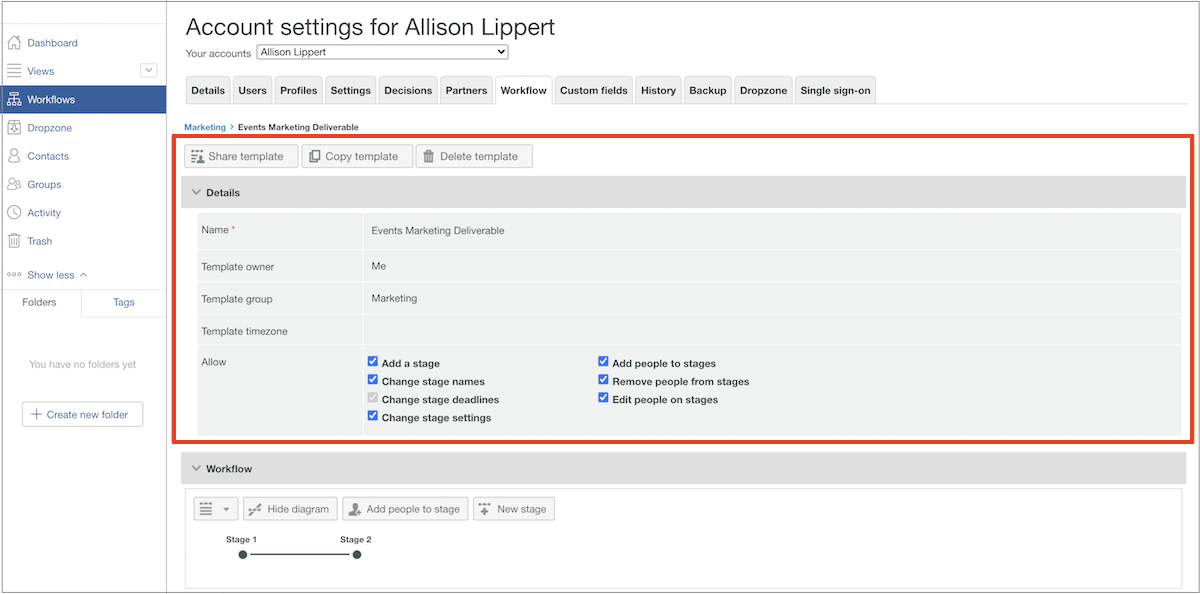
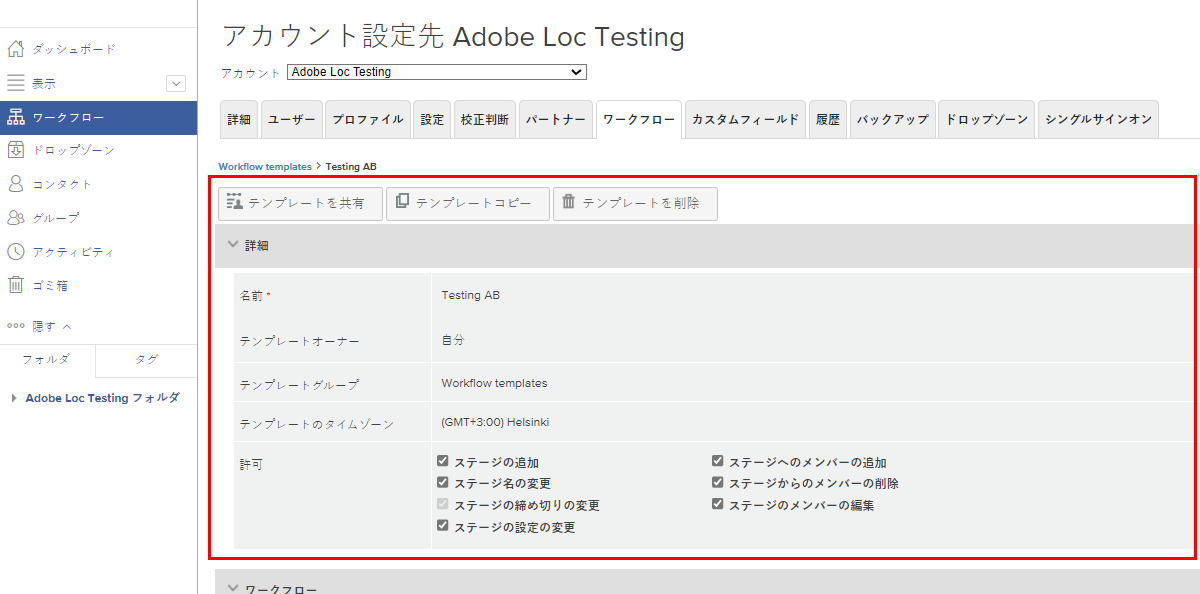
Updated by task 'AUTO_HANDOFF_1723460285162'  Changes for core/source commit https://git.corp.adobe.com/AdobeDocs/workfront-learn.en/commit/f2256fcc19d64247c79126c39acc202b4aff6f96

diff --git a/help/workfront-proof/administration-and-setup/edit-an-automated-workflow-template.md b/help/workfront-proof/administration-and-setup/edit-an-automated-workflow-template.md
@@ -13,9 +13,9 @@ jira: KT-8831
 exl-id: 03841b1f-741d-4427-ae84-ddb9f890fc95
 doc-type: video
 source-git-commit: 55edb8b797583f93f405c9c6b69422b818c90cdc
-workflow-type: tm+mt
+workflow-type: ht
 source-wordcount: '572'
-ht-degree: 61%
+ht-degree: 100%
 
 ---
 
@@ -29,12 +29,12 @@ ht-degree: 61%
 1. そこから、左のパネルメニューで「**[!UICONTROL ワークフロー]**」を選択します。
 1. テンプレート名の右端にある「...」メニューをクリックし、「**[!UICONTROL テンプレートの詳細を表示]**」を選択します。
 
-テンプレートの共有、コピー、削除の各オプションが、各テンプレートのテンプレート詳細ウィンドウの上部に表示されます。テンプレートを削除しても、そのテンプレートが適用されている進行中のプルーフには影響しませんが、今後はそのテンプレートを使用できなくなります。
+テンプレートの共有、コピー、削除の各オプションが、各テンプレートのテンプレート詳細ウィンドウの上部に表示されます。 テンプレートを削除しても、そのテンプレートが適用されている進行中のプルーフには影響しませんが、今後はそのテンプレートを使用できなくなります。
 
 ![テンプレート詳細ウィンドウ](assets/proof-system-setup-edit-templates-details-area.png)
 
 
-「[!UICONTROL  詳細 ]」という単語の左側にある矢印をクリックして、セクションを展開または折りたたみます。
+「[!UICONTROL 詳細]」という単語の左側にある矢印をクリックすると、セクションを展開したり折りたたんだりできます。
 
 ## ステージと受信者を変更する
 
@@ -42,31 +42,31 @@ ht-degree: 61%
 
 自動ワークフローの各ステージには固有のセクションがあり、そこでは期限、プライバシー、プルーフの受信者、その他の情報を個別に変更できます。
 
-このビデオでは、「ワークフロー [!UICONTROL  エリアで実行できる変更の一部を実演し ] す。 このビデオの下にある箇条書きリストを参照してください。このビデオでは、これらの設定を確認します。
+このビデオでは、[!UICONTROL ワークフロー]エリアで実行できる変更のいくつかを実演します。 このビデオの下にある箇条書きリストを参照してください。このビデオでは、これらの設定を確認します。
 
 >[!VIDEO](https://video.tv.adobe.com/v/335131/?quality=12&learn=on)
 
 確認として、「[!UICONTROL ワークフロー]」セクションで実行できるプルーフテンプレートの変更は次の通りです。
 
 * 「ステージ名」フィールドまたは「期限」フィールドをクリックすると、その情報を更新できます。
-* 期限の左側にある矢印をクリックすると、ステージをロックしたり、ステージをアクティブにするタイミングを決定したり、決定を 1 つだけ要求したりできます。
+* 「期限」の左側にある矢印をクリックすると、ステージをロックしたり、ステージをアクティブにするタイミングを決定したり、1 つの決定のみを要求したりできます。
 * 受信者リストで、「[!UICONTROL 役割]」フィールドまたは「[!UICONTROL 電子メールアラート]」フィールドをクリックすると、別のオプションを選択できます。
-* 受信者の名前の右端にある点が 3 つ並んだメニューに移動すると、受信者をリストから削除したり、そのワークフローステージのメインの意思決定者にしたり、プルーフの役割とメールアラートの情報を編集したりできます。
+* 受信者の名前の右端にある点が 3 つ並んだメニューに移動すると、受信者をリストから削除したり、そのワークフローステージのメインの意思決定者にしたり、プルーフの役割とメールアラートに関する情報を編集したりできます。
 * 受信者をリストに追加する方法は 2 つあります。
-   1. 各ステージセクションの右上隅で、[!UICONTROL  詳細 ] メニューに移動して「[!UICONTROL  ステージにユーザーを追加 ]」を選択します。 [!UICONTROL  ステージにユーザーを追加 ] ウィンドウを開いたら、そのユーザーを追加するステージをクリックします。 次に、受信者リストにそのユーザーの名前または電子メールアドレスを入力し、プルーフの役割とメールアラートを割り当てます。完了したら「[!UICONTROL  ユーザーを追加 ]」ボタンをクリックします。
+   1. 各ステージセクションの右上隅で、「[!UICONTROL 詳細]」メニューに移動して「[!UICONTROL ステージにユーザーを追加]」を選択します。 「[!UICONTROL ステージにユーザーを追加]」ウィンドウを開いたら、そのユーザーを追加するステージをクリックします。 次に、受信者リストにそのユーザーの名前または電子メールアドレスを入力し、プルーフの役割とメールアラートを割り当てます。 完了したら「[!UICONTROL ユーザーを追加]」ボタンをクリックします。
    1. [!UICONTROL ワークフロー]エリアの上部で、「[!UICONTROL ステージにユーザーを追加]」を選択します。
 
 ## テンプレートを共有する
 
-[!UICONTROL 共有先]エリアには、テンプレートを使用できるプルーフのユーザーが表示されます。今後はテンプレートを使用する必要がなくなったユーザーを削除するには、名前の右端にある「...」メニューをクリックして、「[!UICONTROL 削除]」を選択します。
+[!UICONTROL 共有先]エリアには、テンプレートを使用できるプルーフのユーザーが表示されます。 今後はテンプレートを使用する必要がなくなったユーザーを削除するには、名前の右端にある「...」メニューをクリックして、「[!UICONTROL 削除]」を選択します。
 
 ![[!UICONTROL 共有先]リスト](assets/proof-system-setups-edit-template-shared-with.png)
 
-ただし、このセクションから共有リストにユーザーを追加することはできません。これを実行するには、テンプレートの詳細ウィンドウの上部に戻り、「[!UICONTROL テンプレートを共有]」ボタンをクリックします。
+ただし、このセクションから共有リストにユーザーを追加することはできません。 これを実行するには、テンプレートの詳細ウィンドウの上部に戻り、「[!UICONTROL テンプレートを共有]」ボタンをクリックします。
 
 ## 追加情報
 
-[!DNL Workfront] では、いつテンプレートに変更が加えられたかの監査履歴が保持されています。日付、変更を加えたユーザー、および変更内容に関する簡単な情報を確認できます。
+[!DNL Workfront] では、いつテンプレートに変更が加えられたかの監査履歴が保持されています。 日付、変更を加えたユーザー、および変更内容に関する簡単な情報を確認できます。
 
 このセクションでは、プルーフでいつテンプレートが使用されたかに関する情報は記録されません。
 
